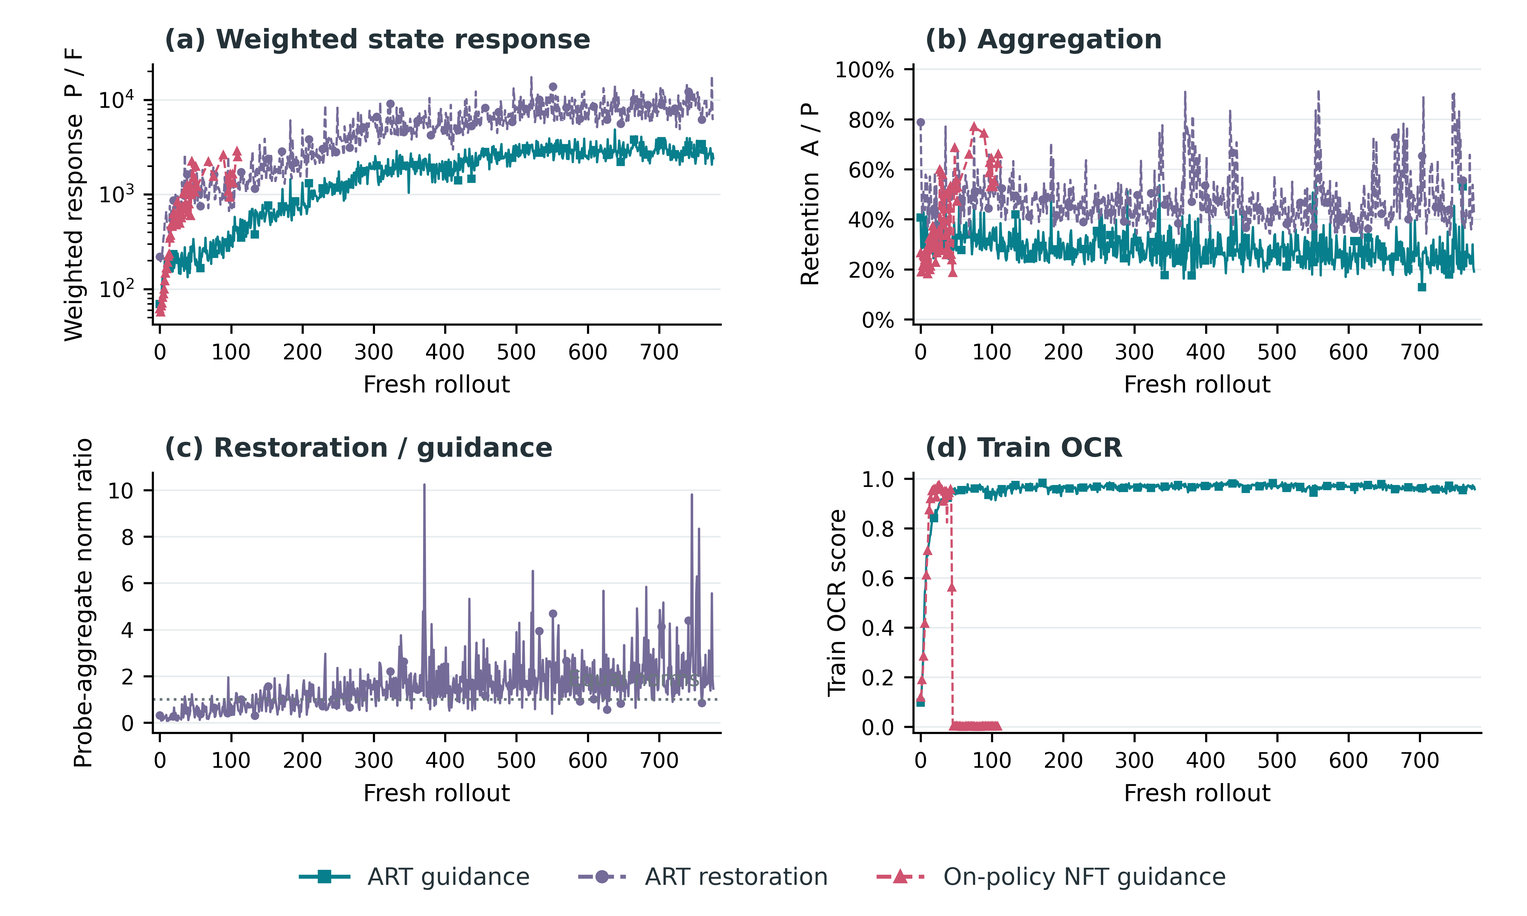
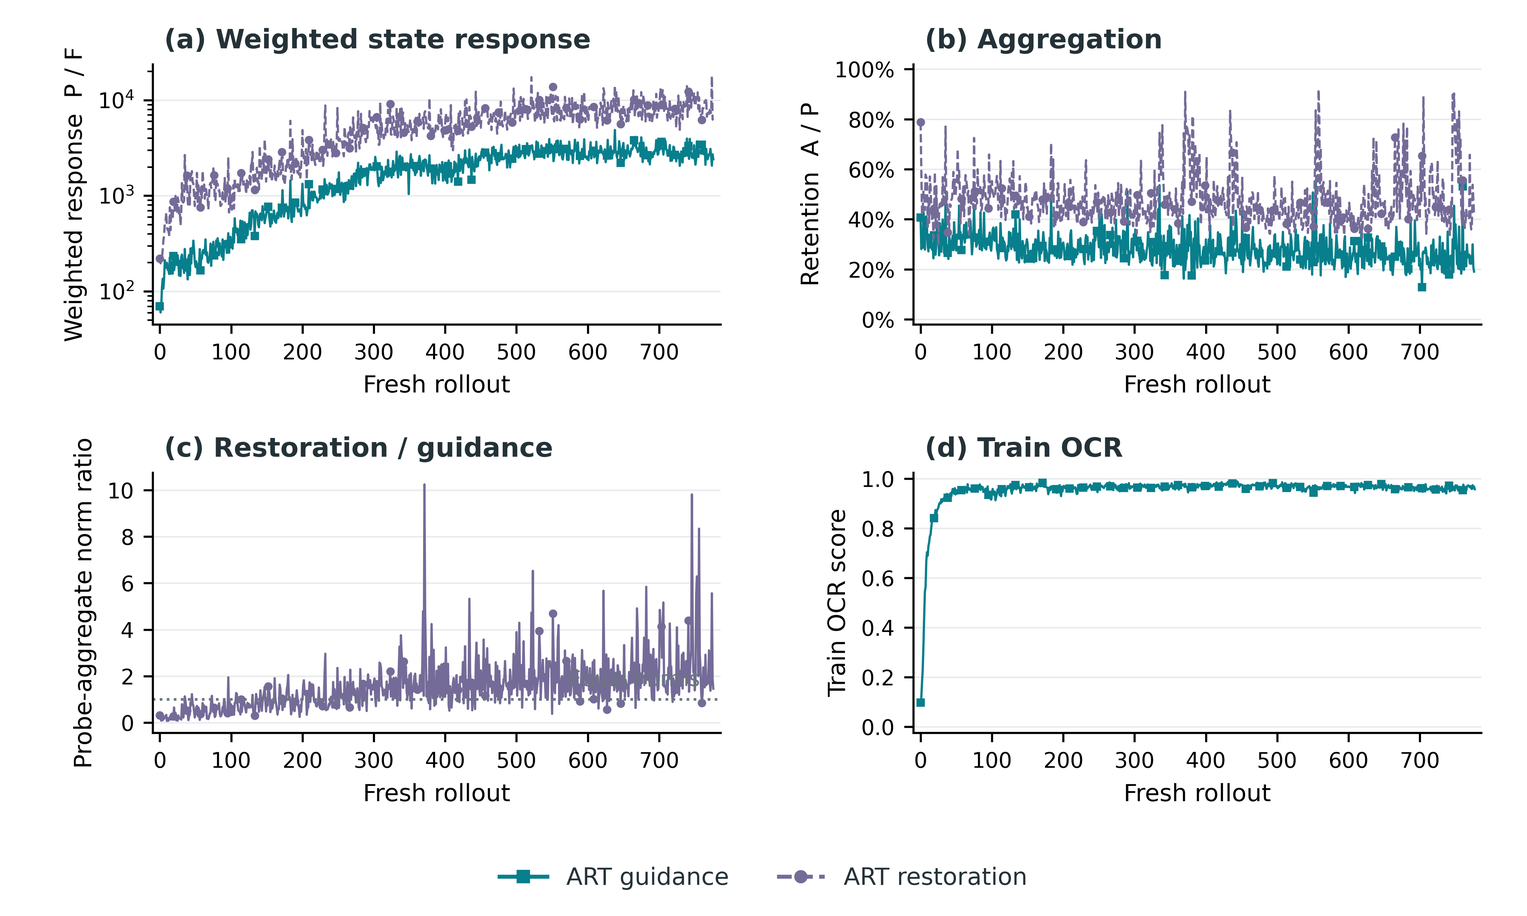
Clarify NFT force decomposition and ART adaptive restoration

diff --git a/_includes/research-notes/diffusion-rl.zh.md b/_includes/research-notes/diffusion-rl.zh.md
@@ -344,6 +344,8 @@ L_{\rm Fast}&=-\frac{1}{Gm}\sum_{i=1}^{G}\sum_{k\in\mathcal W_j}
 
 <p><strong>选时步是硬加权，调整 timestep weighting 是软加权：两者都在分配哪些 action 能影响合力。</strong> 硬加权把窗口外的权重置零，还能跳过对应的训练 forward/backward；每条轨迹的训练样本从 N 个减到 m 个。2.4 的 LoRA 实验也说明，高噪声位置学到的函数变化可以在低噪声位置产生收益，不必逐步训练才能逐步受益。</p>
 
+<p id="zh-video-credit"><strong>视频任务会放大 credit assignment 的问题。</strong>当有效 action credit 集中在极高噪声区域时，其他位置的更新很难改善 reward。Flow-GRPO Fast 虽然减少了训练步数，但如果窗口没有选对，credit assignment 仍可能差到几乎无法训练。因此，高噪声区域的选择可以决定训练是否有效，而不只是节省多少计算。</p>
+
 <p><strong>在选中的窗口内，还可以进一步做 timestep weighting。</strong> 沿用前面的采样公式：σₜₖ 控制探索强度，δₖ 是步长，ξᵢ,ₖ 是标准高斯噪声。因此 action 与均值 μ_old 的差，就是 <span class="math">\(\sigma_{t_k}\sqrt{\delta_k}\,\xi_{i,k}\)</span>。</p>
 
 <p>MSE 求导给出这个残差；从转移均值换到 velocity，再乘 <span class="math">\(\delta_k b_{t_k}\)</span>。把 advantage Aᵢ 和选定的分母乘进去，就得到 current=old 时的输出力：</p>
@@ -655,6 +657,36 @@ f_{\rm fit}=-\nabla_{v_\theta}\ell_{\rm fit}
 
 <p>第一项是 <span class="math">\(2g(s)\)</span> 的估计，第二项是这个样本携带的自一致性力。注意NFT使用的goodness来代替r， 所以估计的无偏性会被一定程度破坏。</p>
 
+<p id="zh-nft-three-components"><strong>进一步拆开 loss：MSE 是接口，背后是三股力。</strong>固定一次采样及其 state s，令 <span class="math">\(v_{\rm fwd}^{\rm old}(s)=\mathbb E_{Q_{\rm old}}[u\mid s]\)</span>。把这个理想 old forward 场加进前面的 reward 加权回归，便得到：</p>
+
+<div class="math" data-equation="nft-three-loss">
+\[
+\boxed{\begin{aligned}
+\ell_{\rm NFT}
+&=\underbrace{\beta(2r-1)\!\left[\|v_\theta-u\|^2-\|v_\theta-v_{\rm fwd}^{\rm old}\|^2\right]}_{\ell_{\rm guidance}}\\
+&\quad+\underbrace{\beta(2r-1)\!\left[\|v_\theta-v_{\rm fwd}^{\rm old}\|^2-\|v_\theta-v_{\rm old}\|^2\right]}_{\ell_{\rm consistency}}\\
+&\quad+\underbrace{\beta^2\|v_\theta-v_{\rm old}\|^2}_{\ell_{\rm restoration}}+C.
+\end{aligned}}
+\]
+</div>
+
+<p>这是逐样本等式，C 与 θ 无关；u、r、old 和理想 forward 场都停止梯度。总体 loss 对前述 <span class="math">\(x_0\sim p_{\rm old}(\cdot\mid c),\ t\sim\rho,\ \epsilon\sim\mathcal N(0,I)\)</span> 取期望。分别求负梯度，就能直接看到每项把 current 往哪里推：</p>
+
+<div class="math" data-equation="nft-three-force">
+\[
+\boxed{\begin{aligned}
+f=-\nabla_{v_\theta}\ell_{\rm NFT}
+&=\underbrace{2\beta(2r-1)(u-v_{\rm fwd}^{\rm old})}_{\text{reward guidance}}\\
+&\quad+\underbrace{2\beta(2r-1)(v_{\rm fwd}^{\rm old}-v_{\rm old})}_{\text{self-consistency}}\\
+&\quad+\underbrace{2\beta^2(v_{\rm old}-v_\theta)}_{\text{restoration}}.
+\end{aligned}}
+\]
+</div>
+
+<p><strong>第一项从理想 old forward 场指向样本目标 u；第二项纠正实际 old 与理想 forward 场之间的 gap；第三项把 current 拉回实际 old。</strong>前两项随 2r−1 改变方向，第三项在 current=old 时为零。前两项写成平方距离之差，是为了分离作用力，并不要求它们各自是非负 loss。</p>
+
+<p>固定 state 后，正支的 <span class="math">\(\mathbb E[r(u-v_{\rm fwd}^{\rm old})\mid s]=g(s)\)</span>，负支的 <span class="math">\(-\mathbb E[(1-r)(u-v_{\rm fwd}^{\rm old})\mid s]=g(s)\)</span>。所以<strong>两支的 reward guidance 同向加强，自一致性分量则尝试抵消</strong>；goodness centering 正是在改善后一项的系数平衡。这里 g 按当前反馈 r 定义；它是否等于最初 tilted distribution 的目标，仍取决于 goodness 的变换。</p>
+
 <p><strong>为什么还需要负分支？</strong>看实际样本： 分析current = old 即on-policy 情况，我们来看看如果只有某个分支的话会怎样（去掉共同的 2β 因子）：</p>
 <ul><li><strong>只有正分支：</strong>力为 <span class="math">\(r(u-v_{\rm old})=r[u-v_{\rm fwd}^{\rm old}(s)]+r\Delta_{\rm fwd}(s)\)</span>。无论样本好坏，都往 u 拉；低分样本只是拉得弱。自一致性分量也始终往理想 forward 场拉近， <em>相当于objective 里面多了一项 <strong>向reward-tilted 前向速度场的隐式蒸馏</strong></em>。</li><li><strong>只有负分支：</strong>力为 <span class="math">\(-(1-r)(u-v_{\rm old})=-(1-r)[u-v_{\rm fwd}^{\rm old}(s)]-(1-r)\Delta_{\rm fwd}(s)\)</span>。无论样本好坏，都推离 u；高分样本只是推得弱。自一致性分量始终把模型推离理想 forward 场。</li></ul>
 <p>两支合用，才得到 <span class="math">\((2r-1)(u-v_{\rm old})\)</span>：高于组均值的样本拉，低于组均值的样本推。自一致性系数也从单向的 r 或 −(1−r)，变成可正可负的 2r−1，使不同样本的额外分量有机会在全局跨state 梯度聚合的时候相抵。这同时解释了<a href="#zh-nft-question-negative">问题 2：为什么需要正负分支</a>， 和<a href="#zh-nft-question-goodness">问题 3：为什么需要用normalize reward之后的goodness分数取代这里的r</a>， 舍弃掉无偏性： 因为如果r是goodness，则满足 <span class="math">\(\sum (2r-1)=0\)</span> 也就是不同state上的自一致性力的系数平衡。但 gap 随 state 变化，系数平衡不保证加权向量抵消（<span class="math">\(\sum (2r-1)=0\)</span> 不意味着<span class="math">\(\sum \mathrm{grad}\,(2r-1)f=0\)</span>）。没有抵消干净的残差仍然会减慢训练， 或者reward训练直接崩溃。（如图6 右所示）</p>
@@ -873,11 +905,13 @@ g_i^{\rm restore}&=-J_i^\top J_i\Delta\theta,\\
 
 <p>把 ART 继续跑到 777 个 rollout 边界，最近50轮的 train OCR 均值仍约 <strong>0.962</strong>。它并不是把响应率固定在一个小值：最近50个第二更新窗口，guidance 的响应率已到约 <strong>2800</strong>，restoration 约 <strong>9000</strong>。恢复输出力均值只有 guidance 的约 <strong>40%</strong>，但响应率与保留率都更高。三个量走完，恢复的诊断聚合梯度在 <strong>49/50</strong> 个窗口大于 guidance，配对模长比平均约 <strong>2.7</strong>。</p>
 
-<figure id="zh-art-restoration-longrun" class="figure-compact" data-figure="art_longrun_restoration"><img src="/assets/blog/diffusion-rl/art_longrun_restoration.png" alt="图11b：ART 第二次更新的 guidance 与 restoration 长跑诊断，并与纯 on-policy NFT 对比" loading="lazy"><figcaption>图11b. ART 长跑与图11a的纯 on-policy NFT 对照。ART 只取第二更新窗口，每窗口同一组80个诊断 state；A 是这些 state 的 raw LoRA 梯度平均向量的模长，不是完整训练 batch 的梯度。NFT 只显示已有的0–109轮，没有恢复项；(c)仅画 ART 同窗口 A_restore/A_guidance，虚线1表示等模长。无平滑；响应率用对数轴，NFT 的有效点跨缺失区间连接但不补值。OCR 是更新前的训练 reward，不是 held-out eval。</figcaption></figure>
+<figure id="zh-art-restoration-longrun" class="figure-compact" data-figure="art_longrun_restoration"><img src="/assets/blog/diffusion-rl/art_longrun_restoration.png" alt="图11b：ART 第二次更新的 guidance 与 restoration 长跑诊断" loading="lazy"><figcaption>图11b. ART 第二更新窗口的响应率、聚合保留率、恢复／引导梯度模长比与 train OCR。每窗口同一组80个诊断 state；A 是其 raw LoRA 梯度平均向量的模长，不是完整训练 batch 或 Adam 更新。响应率用对数轴，不平滑；(c)虚线为等模长。</figcaption></figure>
 
-<p><strong>这让稳定性的解释从“guidance 不敏感”转向了“两股力能否持续配合”。</strong>沿 ART 实际训练轨迹，所测 guidance 的单位输出力对应的参数梯度越来越大，恢复作用也随之增强。它撤销的是模型已经共同实现过的变化，这与前面的“共同可实现”直觉相吻合。不过，模长更大不等于方向完全相反，也不等于 Adam 更新份额；要证明恢复是长期稳定的原因，还需要移除恢复项的对照。</p>
+<p><strong>为什么两次更新的 restoration 更好？关键是 adaptive。</strong>第一步产生实际漂移，第二步相对冻结 old 自动形成恢复。它有两层适应性：漂移越大，输出恢复力越强；如果 guidance 的高响应方向主导了首次移动，这份位移对应的 restoration 也可能有高响应。图11b中，两股响应共同增长，恢复响应持续高于 guidance，与这种反馈机制一致。</p>
 
-<blockquote><strong>Insight：高单样本响应率，不等于训练必然崩溃。</strong>只有 guidance 时，响应率突增可能放大更新；有竞争力时，还要看恢复作用能否跟上。ART 长跑展示了后者，而不是一个始终低敏感的模型。</blockquote>
+<p><strong>为什么 ART 的 guidance 更好？它没有 NFT 的那项 forward–reverse consistency。</strong>我们的机制解释是：NFT 的第二项会参与梯度竞争，可能分走 reward 学习的更新，这有助于理解 NFT 在部分视频任务中为何更慢。我们进一步假设，这项 consistency 很可能是响应率 spike 的关键来源：一旦产生极端、不利于 reward 的更新，restoration 就更难挽救 collapse。ART 直接聚合 covariance guidance，避开这项额外竞争；所示训练中，其响应总体渐增，reward 保持稳定。consistency 是否直接造成 spike，仍需分项干预验证。</p>
+
+<blockquote><strong>Insight：ART 的稳定性要从 guidance 与 restoration 两层理解。</strong>共享 covariance 避开 NFT 特有的自一致性项，两次更新则让恢复响应本轮实际漂移。</blockquote>
 
 <h5 id="zh-flow-force-mapping">3. Flow-GRPO：为什么单 state 的 单样本响应率 就这么低？</h5>
 
@@ -918,6 +952,10 @@ g_i^{\rm restore}&=-J_i^\top J_i\Delta\theta,\\
 <figure id="zh-force-competition" class="figure-compact" data-figure="force_competition"><img src="/assets/blog/diffusion-rl/force_competition_compact.png" alt="图14：首次更新位移及第二窗口恢复与 guidance 的强度和方向" loading="lazy" width="2400" height="960"><figcaption>图14：初次移动相近，后续竞争不同。左为首个 update 的输出变化 MSE；中、右为第二窗口恢复／guidance 梯度的模长比与 cosine。</figcaption></figure>
 
 <p>首个更新的输出变化 MSE 为 <strong>0.002318／0.002311</strong>，参数位移模长均约 <strong>0.888</strong>。但第二窗口的恢复/guidance 平均模长之比从 <strong>4.85 降至0.78</strong>。起步几乎同样远，随后学得快慢却不同：<strong>同一个力的尺度，在没有竞争力（这里是恢复力）时是整体尺度，有了恢复力后就成为相对尺度。所以<span class="math">\(\beta=1\)</span> 的两次更新实验，restoration在第二次更新的时候严重压过了guidance，导致严重减速，但也让训练更稳定一些。</strong></p>
+
+<p id="zh-ema-competition"><strong>EMA 调参的本质：让预设恢复机制接住 gradient spike。</strong>EMA 的 decay / schedule 预设参考的跟随时序，β 调节反馈与恢复的相对强度。调参要让恢复在危险更新出现时提供足够反向约束，同时不过度压慢平时的 reward 学习。与之相比，两次更新直接根据本轮实际漂移产生恢复，减少了对跨 rollout 预设时序的依赖。</p>
+
+<p>这里预设的是机制与系数，实际 lag 和恢复梯度仍随漂移及 Jacobian 变化。“接住”指限制有害更新的合力，不等于恢复范数更大就必然稳定；方向和 Adam 预条件同样重要。现有 on-policy NFT 的响应率 spike 与 collapse 相伴，并未单独证明改一套 EMA schedule 就能避免该次 collapse。</p>
 
 **Case Study 2：连续时间、连续空间 RL 中，KL 应该怎么调？**
 

diff --git a/_includes/research-notes/diffusion-rl.en.md b/_includes/research-notes/diffusion-rl.en.md
@@ -332,6 +332,8 @@ Each round:
 
 **Timestep selection is hard weighting; timestep reweighting is soft weighting. Both allocate influence over the resultant.** Hard weighting sets contributions outside the window to zero and skips their training forward/backward passes, reducing training samples per trajectory from N to m. The LoRA experiment in Section 2.4 also shows that changes learned at high-noise positions can benefit low-noise predictions: every position need not be trained to benefit.
 
+<p id="en-video-credit"><strong>Video tasks can amplify the credit-assignment problem.</strong>When useful action credit is concentrated at extremely high noise, updates elsewhere have little leverage over reward. Flow-GRPO Fast reduces the number of trained steps, but a poorly placed window can still make learning nearly ineffective. Choosing the high-noise region can therefore determine whether training works, not just how much computation it saves.</p>
+
 <p><strong>Within the selected window, we can further adjust timestep weighting.</strong> Reuse the sampling equation above: σₜₖ controls exploration, δₖ is the step size, and ξᵢ,ₖ is standard Gaussian noise. The sampled action's residual from μ_old is therefore <span class="math">\(\sigma_{t_k}\sqrt{\delta_k}\,\xi_{i,k}\)</span>.</p>
 
 <p>Differentiating the MSE gives this residual. Mapping the transition mean back to velocity multiplies it by <span class="math">\(\delta_k b_{t_k}\)</span>. Including advantage Aᵢ and the chosen denominator gives the output force at current=old:</p>
@@ -651,6 +653,36 @@ f_{\rm fit}=-\nabla_{v_\theta}\ell_{\rm fit}
 
 <p>The first term estimates <span class="math">\(2g(s)\)</span>; the second is this sample's consistency force. Note that NFT substitutes goodness for r, so the estimator's unbiasedness is compromised to some extent.</p>
 
+<p id="en-nft-three-components"><strong>A finer loss decomposition: MSE is the interface for three forces.</strong>Fix a sampled state s and define <span class="math">\(v_{\rm fwd}^{\rm old}(s)=\mathbb E_{Q_{\rm old}}[u\mid s]\)</span>. Introducing this ideal old forward field into the reward-weighted regression gives:</p>
+
+<div class="math" data-equation="nft-three-loss">
+\[
+\boxed{\begin{aligned}
+\ell_{\rm NFT}
+&=\underbrace{\beta(2r-1)\!\left[\|v_\theta-u\|^2-\|v_\theta-v_{\rm fwd}^{\rm old}\|^2\right]}_{\ell_{\rm guidance}}\\
+&\quad+\underbrace{\beta(2r-1)\!\left[\|v_\theta-v_{\rm fwd}^{\rm old}\|^2-\|v_\theta-v_{\rm old}\|^2\right]}_{\ell_{\rm consistency}}\\
+&\quad+\underbrace{\beta^2\|v_\theta-v_{\rm old}\|^2}_{\ell_{\rm restoration}}+C.
+\end{aligned}}
+\]
+</div>
+
+<p>This is a per-sample identity, with C independent of θ. Targets u, r, old and the ideal forward field are detached. The population loss averages over the same <span class="math">\(x_0\sim p_{\rm old}(\cdot\mid c),\ t\sim\rho,\ \epsilon\sim\mathcal N(0,I)\)</span> as above. Taking each negative output gradient reveals its direction:</p>
+
+<div class="math" data-equation="nft-three-force">
+\[
+\boxed{\begin{aligned}
+f=-\nabla_{v_\theta}\ell_{\rm NFT}
+&=\underbrace{2\beta(2r-1)(u-v_{\rm fwd}^{\rm old})}_{\text{reward guidance}}\\
+&\quad+\underbrace{2\beta(2r-1)(v_{\rm fwd}^{\rm old}-v_{\rm old})}_{\text{self-consistency}}\\
+&\quad+\underbrace{2\beta^2(v_{\rm old}-v_\theta)}_{\text{restoration}}.
+\end{aligned}}
+\]
+</div>
+
+<p><strong>The first term points from the ideal old forward field toward the sample target u; the second acts on the gap between actual old and the ideal forward field; the third restores current toward actual old.</strong>The first two reverse with the sign of 2r−1, while the third vanishes at current=old. Differences of squared distances separate these forces; the component losses need not be nonnegative.</p>
+
+<p>At a fixed state, the positive branch contributes <span class="math">\(\mathbb E[r(u-v_{\rm fwd}^{\rm old})\mid s]=g(s)\)</span>, and the negative branch contributes <span class="math">\(-\mathbb E[(1-r)(u-v_{\rm fwd}^{\rm old})\mid s]=g(s)\)</span>. Thus <strong>reward guidance reinforces across branches, while consistency components attempt to cancel</strong>. Goodness centering balances the latter's coefficients. Here g is defined for the chosen feedback r; its relation to the original tilted-distribution target still depends on the goodness transformation.</p>
+
 <p><strong>Why do we still need the negative branch?</strong> Look at the actual sample. At current=old, omitting the common 2β factor:</p>
 <ul>
 <li><strong>Positive branch only:</strong> the force is <span class="math">\(r(u-v_{\rm old})=r[u-v_{\rm fwd}^{\rm old}(s)]+r\Delta_{\rm fwd}(s)\)</span>. Every sample pulls toward u, good or bad; low-scoring samples merely pull less. The consistency component also always pulls toward the ideal forward field, <em>effectively adding <strong>implicit distillation toward the reward-tilted forward velocity field</strong> to the objective</em>.</li>
@@ -870,11 +902,13 @@ EMA and second updates, however, intervene on different schedules:
 
 <p>Continue ART through rollout boundary 777: mean train OCR over the latest 50 rollouts remains about <strong>0.962</strong>. Its response rate does not stay small. Over the latest 50 second-update windows, guidance's mean response rate is about <strong>2800</strong>, versus <strong>9000</strong> for restoration. Restoration's mean output force is only about <strong>40%</strong> of guidance's, but its response and retention are higher. After all three layers, restoration has a larger probe-aggregate gradient in <strong>49/50</strong> windows, with a mean paired norm ratio of about <strong>2.7</strong>.</p>
 
-<figure id="en-art-restoration-longrun" class="figure-compact" data-figure="art_longrun_restoration"><img src="/assets/blog/diffusion-rl/art_longrun_restoration.png" alt="Figure 11b: ART second-update guidance and restoration over the long run, compared with on-policy NFT" loading="lazy"><figcaption>Figure 11b. ART's long run with the same on-policy NFT reference as Figure 11a. ART uses second-update windows, with the same 80 probe states per window; A is the norm of their mean raw LoRA gradient, not the complete training-batch gradient. NFT is shown only over its observed rollouts 0–109 and has no restoration term; (c) shows only ART's same-window A_restore/A_guidance, with the dotted line at 1 marking equal norms. No smoothing; response uses a log axis, and NFT's valid points are connected across undefined intervals without imputation. OCR is the pre-update training reward, not held-out evaluation.</figcaption></figure>
+<figure id="en-art-restoration-longrun" class="figure-compact" data-figure="art_longrun_restoration"><img src="/assets/blog/diffusion-rl/art_longrun_restoration.png" alt="Figure 11b: ART second-update guidance and restoration over the long run" loading="lazy"><figcaption>Figure 11b. ART second-window response, aggregation retention, restoration/guidance gradient-norm ratio and train OCR. Each window uses the same 80 probe states; A is the norm of their mean raw LoRA gradient, not a complete training-batch gradient or Adam update. Response uses a log axis, without smoothing; the dotted line in (c) marks equal norms.</figcaption></figure>
 
-<p><strong>This shifts the stability question from "is guidance insensitive?" to "can the two forces keep working together?"</strong> Along ART's actual training trajectory, the measured guidance produces larger parameter gradients per unit output force, while restoration strengthens alongside it. Restoration undoes changes the model has already jointly realized, matching the earlier intuition. A larger norm, however, does not imply exactly opposing directions or an Adam update share. Establishing restoration as the cause of long-run stability still requires a restoration-removal ablation.</p>
+<p><strong>Why can two-update restoration work better? It is adaptive.</strong>The first update creates actual drift; the second automatically restores against frozen old. Adaptation operates at two levels: larger drift creates a stronger output force, and movement dominated by high-response guidance directions can also produce high-response restoration. In Figure 11b, the two responses rise together, with restoration remaining above guidance, consistent with this feedback mechanism.</p>
 
-<blockquote><strong>Insight: a high per-state response rate does not make collapse inevitable.</strong> With guidance alone, a response spike can amplify updates. With a competing force, we must also ask whether restoration keeps pace. ART's long run illustrates the latter, not a model that stays insensitive.</blockquote>
+<p><strong>Why is ART's guidance better? It avoids NFT's forward–reverse consistency term.</strong>Our mechanistic interpretation is that NFT's second term competes for parameter influence and can divert updates from reward learning, helping explain slower NFT learning on some video tasks. We further hypothesize that this consistency term is a plausible key source of response spikes: extreme updates adverse to reward can make collapse harder for restoration to rescue. ART aggregates covariance guidance directly, avoiding this extra competition; its response grows gradually overall while reward stays high in the shown run. Whether consistency directly causes the spikes still requires a component intervention.</p>
+
+<blockquote><strong>Insight: ART's stability has a guidance layer and a restoration layer.</strong>Shared covariance avoids NFT's specific consistency term, while two updates make restoration respond to actual drift within the rollout.</blockquote>
 
 <h5 id="en-flow-force-mapping">3. Flow-GRPO: why is even the per-state response rate so low?</h5>
 
@@ -913,6 +947,10 @@ At the first update, current=old and restoration is zero; β primarily changes g
 <figure id="en-force-competition" class="figure-compact" data-figure="force_competition"><img src="/assets/blog/diffusion-rl/force_competition_compact.png" alt="Figure 14: Initial movement and second-window restoration versus guidance strength and direction" loading="lazy" width="2400" height="960"><figcaption>Figure 14. Similar initial movement, different subsequent competition. Left: output-change MSE at the first update. Middle and right: restoration/guidance gradient-norm ratio and cosine in second windows.</figcaption></figure>
 
 The first update's output-change MSE is **0.002318/0.002311**, with parameter-displacement norms both about **0.888**. Yet the ratio of mean restoration/guidance norms in the second windows falls from **4.85 to 0.78**. Nearly equal initial movement leads to different learning speeds. **A force's scale is global without a competing force (here, restoration), but becomes relative once restoration appears.**
+
+<p id="en-ema-competition"><strong>The purpose of EMA tuning is to make preset restoration catch gradient spikes.</strong>The EMA decay or schedule presets reference tracking, and β sets feedback's strength relative to restoration. Tuning seeks enough opposing influence during harmful updates without excessively slowing ordinary reward learning. Two updates instead generate restoration from the current rollout's actual drift, reducing dependence on a preset tracking schedule across rollouts.</p>
+
+<p>The mechanism and coefficients are preset; realized lag and restoration gradients still change with drift and the Jacobian. “Catching” a spike means constraining its harmful contribution to the resultant update, not guaranteeing stability through a larger restoration norm. Direction and Adam preconditioning also matter. The on-policy NFT response spike accompanies collapse, but does not alone establish that another EMA schedule would have prevented that collapse.</p>
 
 **Case Study 2: how should we tune KL in continuous-time, continuous-space RL?**
 
